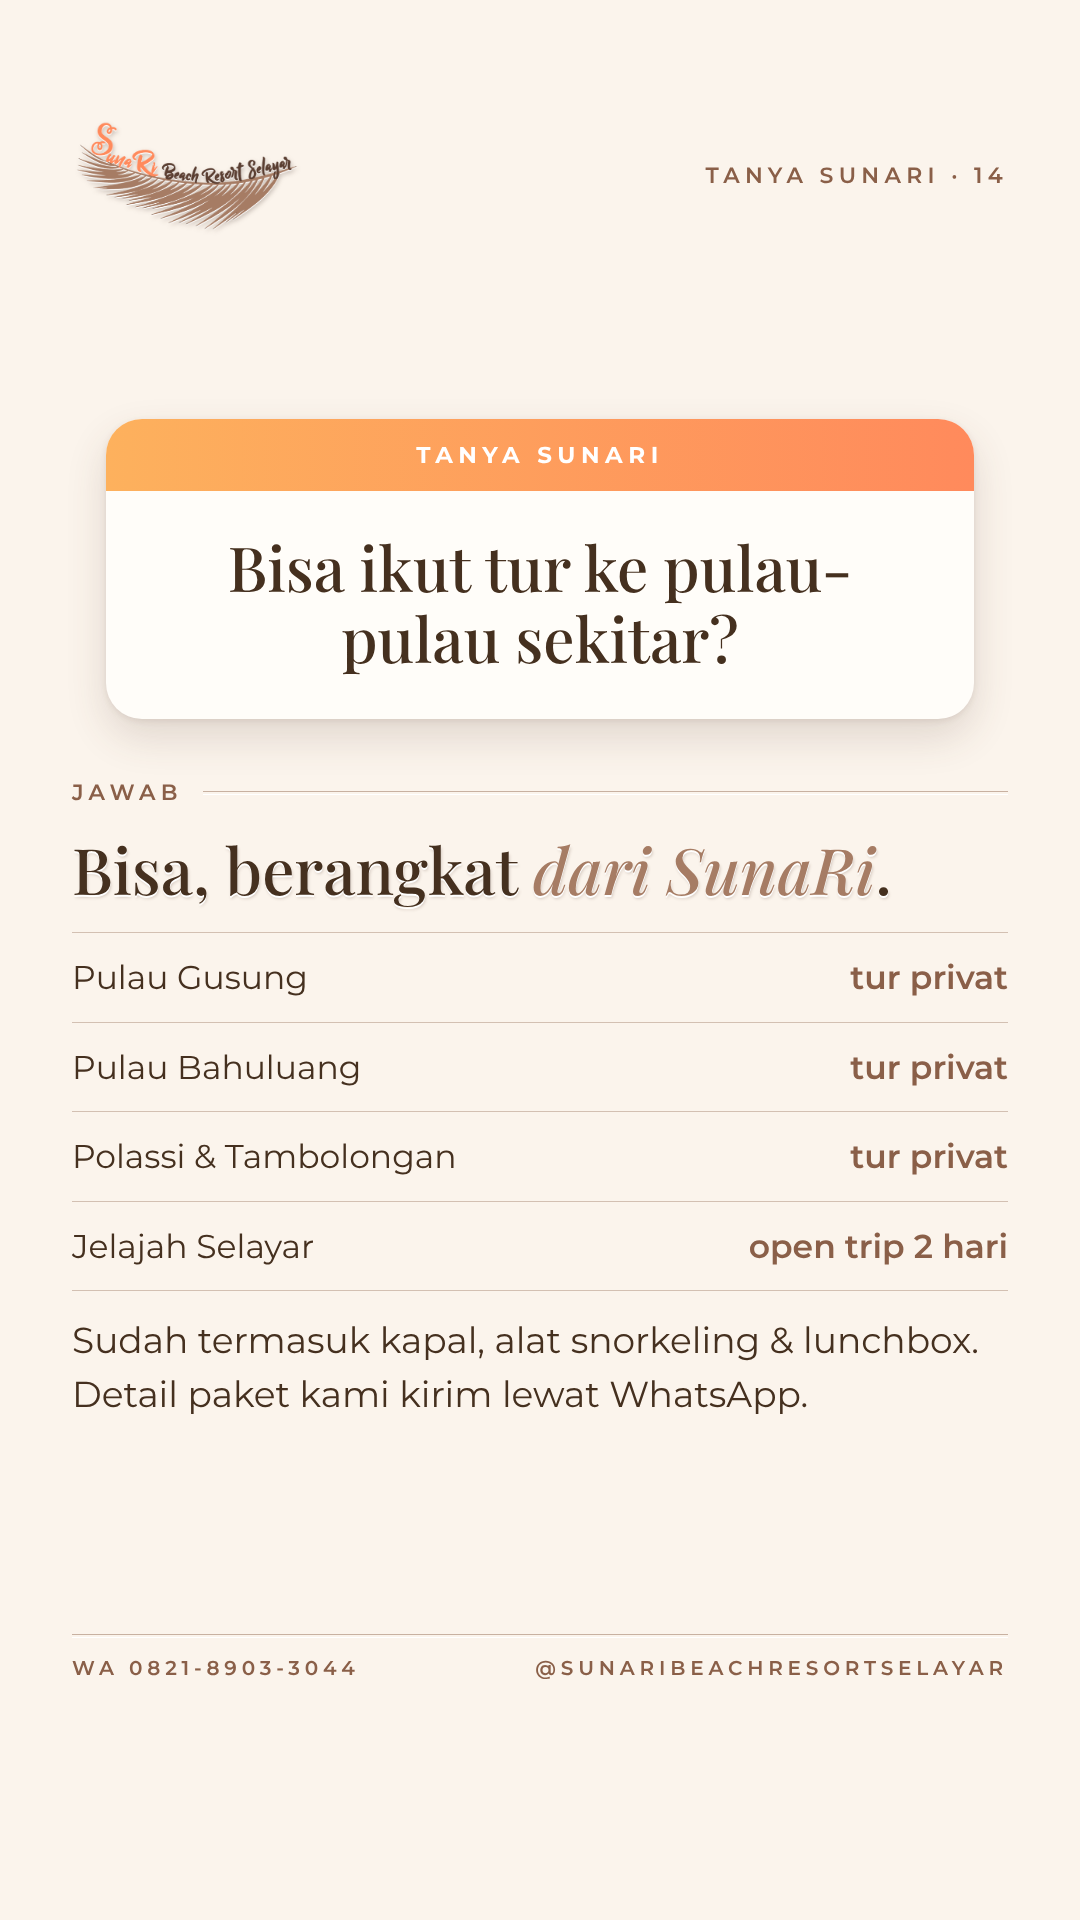
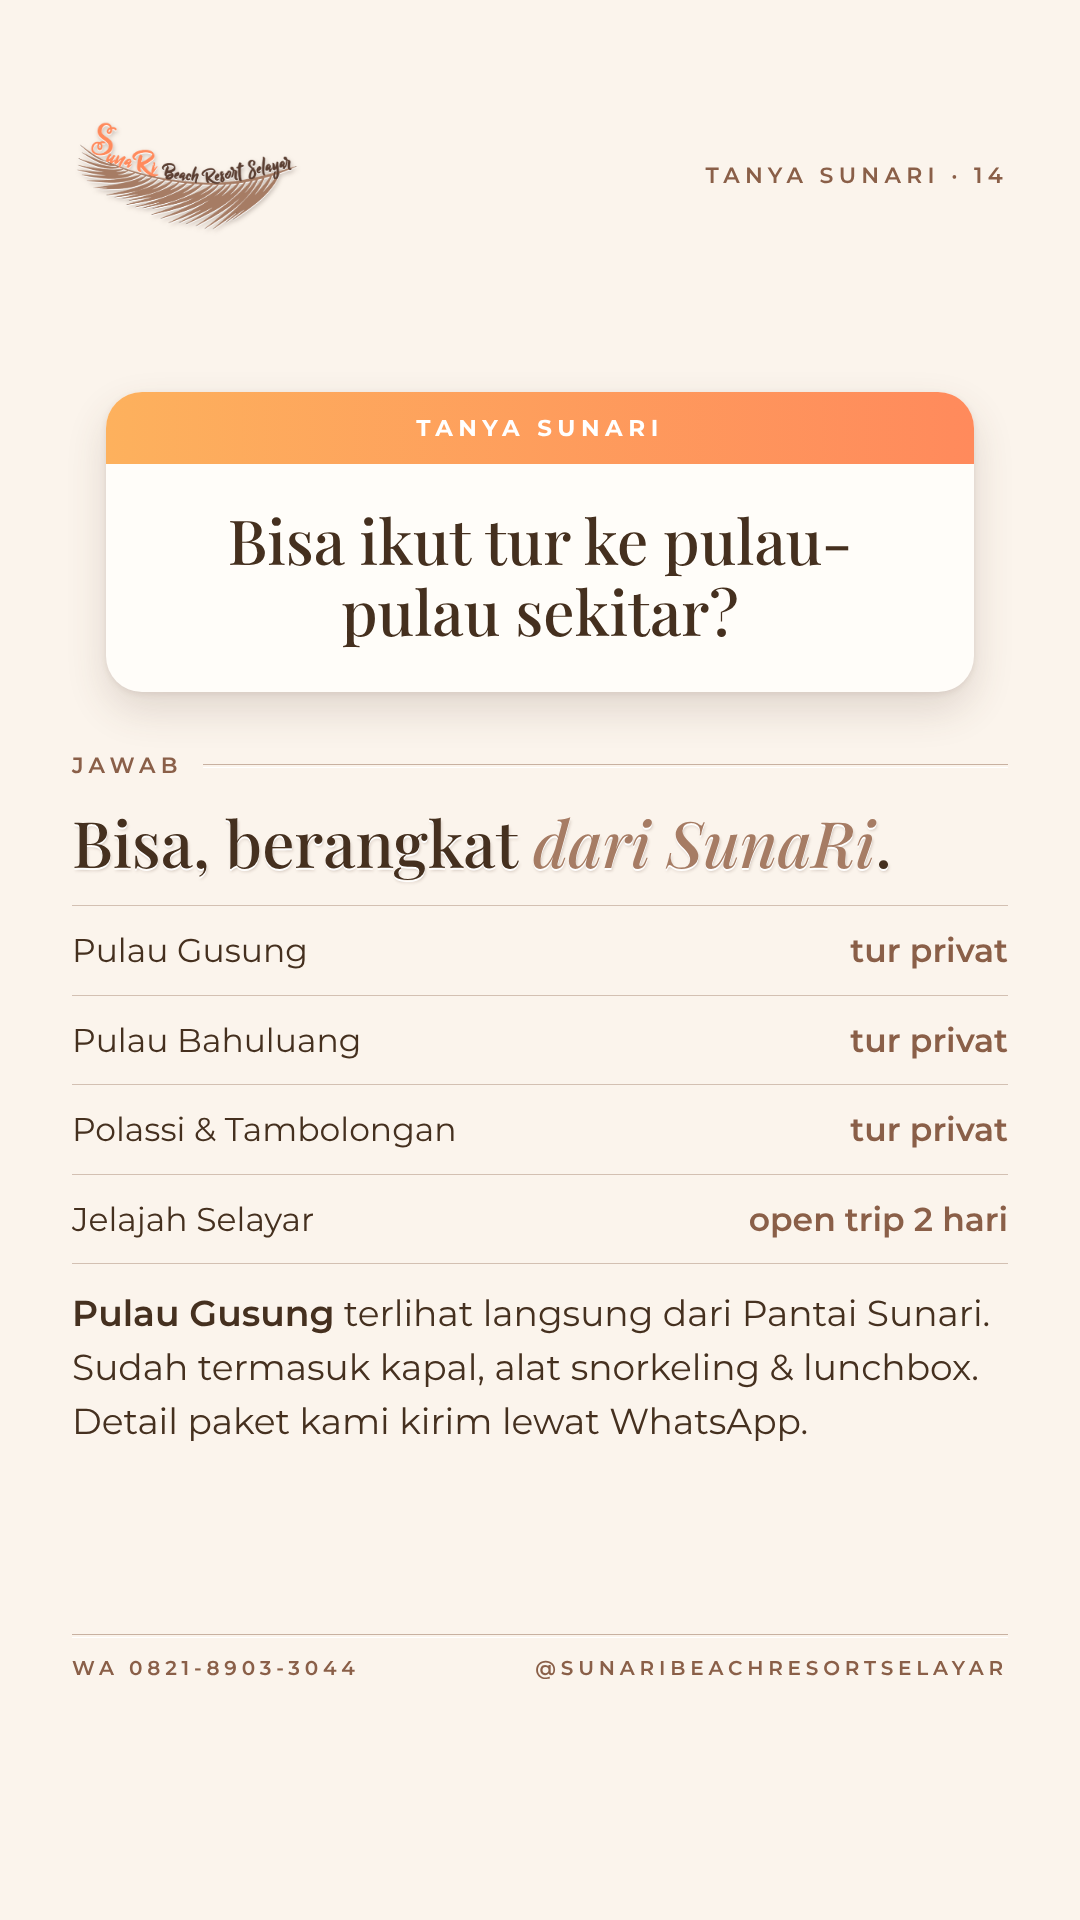
Record free giant swing and Pulau Gusung view; update Q&A and feed slides
Claude-Session: https://claude.ai/code/session_01AizaiBQtsTmWERPRfEgVV4

Changed region(s): [[0.0611, 0.1875, 0.9472, 0.75]]

diff --git a/social/qna.html b/social/qna.html
@@ -79,10 +79,10 @@ body{background:#ccc;font-family:Montserrat,sans-serif;color:#45301F}
   <div class="a"><div class="lbl caps">Jawab</div><div class="main emb">Ada, <span class="it">berbayar</span>, kendaraan privat.</div><div class="list one"><div>Bandara H. Aroeppala ↔ SunaRi</div><div>Pelabuhan Benteng ↔ SunaRi</div><div>Pelabuhan Pamatata ↔ SunaRi</div><div>Transfer dari Makassar (mobil privat atau bus + shuttle)</div></div><p>Daftar tarif lengkap kami kirim lewat WhatsApp. Konfirmasi jadwal paling lambat <b>H-1</b>.</p></div></div>
   <div class="ft"><span class="caps">WA 0821-8903-3044</span><span class="caps">@sunaribeachresortselayar</span></div></div><div class="s" id="qna-13"><div class="top"><img src="../assets/logo-sunari-color.png" alt=""><span class="caps">Tanya SunaRi · 13</span></div>
   <div class="body"><img class="photo" src="../assets/photos/aktivitas/03-ayunan-senja.jpg" style="object-position:50% 55%" alt=""><div class="q"><div class="band">Tanya SunaRi</div><div class="txt">Ada aktivitas apa saja?</div></div>
-  <div class="a"><div class="lbl caps">Jawab</div><div class="list"><div><span>Sewa kayak single</span><span>Rp 50.000</span></div><div><span>Sewa kayak double</span><span>Rp 100.000</span></div><div><span>Ayunan raksasa</span><span>di tepi pantai</span></div><div><span>Tur pulau &amp; snorkeling</span><span>info via WA</span></div></div></div></div>
+  <div class="a"><div class="lbl caps">Jawab</div><div class="list"><div><span>Sewa kayak single</span><span>Rp 50.000</span></div><div><span>Sewa kayak double</span><span>Rp 100.000</span></div><div><span>Ayunan raksasa</span><span>gratis</span></div><div><span>Tur pulau &amp; snorkeling</span><span>info via WA</span></div></div></div></div>
   <div class="ft"><span class="caps">WA 0821-8903-3044</span><span class="caps">@sunaribeachresortselayar</span></div></div><div class="s" id="qna-14"><div class="top"><img src="../assets/logo-sunari-color.png" alt=""><span class="caps">Tanya SunaRi · 14</span></div>
   <div class="body center"><div class="q"><div class="band">Tanya SunaRi</div><div class="txt">Bisa ikut tur ke pulau-pulau sekitar?</div></div>
-  <div class="a"><div class="lbl caps">Jawab</div><div class="main emb">Bisa, berangkat <span class="it">dari SunaRi</span>.</div><div class="list"><div><span>Pulau Gusung</span><span>tur privat</span></div><div><span>Pulau Bahuluang</span><span>tur privat</span></div><div><span>Polassi &amp; Tambolongan</span><span>tur privat</span></div><div><span>Jelajah Selayar</span><span>open trip 2 hari</span></div></div><p>Sudah termasuk kapal, alat snorkeling &amp; lunchbox. Detail paket kami kirim lewat WhatsApp.</p></div></div>
+  <div class="a"><div class="lbl caps">Jawab</div><div class="main emb">Bisa, berangkat <span class="it">dari SunaRi</span>.</div><div class="list"><div><span>Pulau Gusung</span><span>tur privat</span></div><div><span>Pulau Bahuluang</span><span>tur privat</span></div><div><span>Polassi &amp; Tambolongan</span><span>tur privat</span></div><div><span>Jelajah Selayar</span><span>open trip 2 hari</span></div></div><p><b>Pulau Gusung</b> terlihat langsung dari Pantai Sunari. Sudah termasuk kapal, alat snorkeling &amp; lunchbox. Detail paket kami kirim lewat WhatsApp.</p></div></div>
   <div class="ft"><span class="caps">WA 0821-8903-3044</span><span class="caps">@sunaribeachresortselayar</span></div></div><div class="s" id="qna-15"><div class="top"><img src="../assets/logo-sunari-color.png" alt=""><span class="caps">Tanya SunaRi · 15</span></div>
   <div class="body center"><div class="q"><div class="band">Tanya SunaRi</div><div class="txt">Berapa harga kamar &amp; cara pesannya?</div></div>
   <div class="a"><div class="lbl caps">Jawab</div><p style="margin-top:0">Harga &amp; ketersediaan kami kirim <b>langsung lewat WhatsApp</b>, sesuai tanggal &amp; tipe kamar.</p><div class="steps"><div><div class="n">1</div><div><h4>Kirim data</h4><p>tanggal check-in &amp; check-out, jumlah tamu, tipe kamar</p></div></div><div><div class="n">2</div><div><h4>Terima penawaran</h4><p>harga &amp; ketersediaan terbaru</p></div></div><div><div class="n">3</div><div><h4>Bayar &amp; konfirmasi</h4><p>kirim bukti transfer, booking terkonfirmasi</p></div></div></div></div></div>

diff --git a/social/kit.html b/social/kit.html
@@ -661,7 +661,7 @@ body{background:#ddd6cc;font-family:Montserrat,sans-serif;padding:40px;display:f
 </div>
 <div class="tpl" id="p07-3">
   <img class="ph" src="../assets/photos/aktivitas/03-ayunan-senja.jpg" style="object-position:50% 45%" alt="">
-  <div class="txt"><div class="caps">Pantai Sepi</div><h2>Ayunan raksasa saat senja</h2><p>Spot foto favorit di tepi Pantai Sunari.</p></div>
+  <div class="txt"><div class="caps">Pantai Sepi</div><h2>Ayunan raksasa saat senja</h2><p>Spot foto favorit di tepi Pantai Sunari, gratis.</p></div>
   <div class="foot"><span class="caps">SunaRi · Selayar</span><span class="caps">03 — 05</span></div>
 </div>
 <div class="tpl" id="p07-4">

diff --git a/social/build_qna.py b/social/build_qna.py
@@ -119,12 +119,12 @@ qa("Ada layanan antar-jemput?",
    + lst(["Bandara H. Aroeppala ↔ SunaRi", "Pelabuhan Benteng ↔ SunaRi", "Pelabuhan Pamatata ↔ SunaRi", "Transfer dari Makassar (mobil privat atau bus + shuttle)"], one=True)
    + '<p>Daftar tarif lengkap kami kirim lewat WhatsApp. Konfirmasi jadwal paling lambat <b>H-1</b>.</p>')
 qa("Ada aktivitas apa saja?",
-   lst([("Sewa kayak single", "Rp 50.000"), ("Sewa kayak double", "Rp 100.000"), ("Ayunan raksasa", "di tepi pantai"), ("Tur pulau &amp; snorkeling", "info via WA")]),
+   lst([("Sewa kayak single", "Rp 50.000"), ("Sewa kayak double", "Rp 100.000"), ("Ayunan raksasa", "gratis"), ("Tur pulau &amp; snorkeling", "info via WA")]),
    "aktivitas/03-ayunan-senja.jpg", "50% 55%")
 qa("Bisa ikut tur ke pulau-pulau sekitar?",
    '<div class="main emb">Bisa, berangkat <span class="it">dari SunaRi</span>.</div>'
    + lst([("Pulau Gusung", "tur privat"), ("Pulau Bahuluang", "tur privat"), ("Polassi &amp; Tambolongan", "tur privat"), ("Jelajah Selayar", "open trip 2 hari")])
-   + '<p>Sudah termasuk kapal, alat snorkeling &amp; lunchbox. Detail paket kami kirim lewat WhatsApp.</p>')
+   + '<p><b>Pulau Gusung</b> terlihat langsung dari Pantai Sunari. Sudah termasuk kapal, alat snorkeling &amp; lunchbox. Detail paket kami kirim lewat WhatsApp.</p>')
 qa("Berapa harga kamar &amp; cara pesannya?",
    '<p style="margin-top:0">Harga &amp; ketersediaan kami kirim <b>langsung lewat WhatsApp</b>, sesuai tanggal &amp; tipe kamar.</p>'
    + steps([("Kirim data", "tanggal check-in &amp; check-out, jumlah tamu, tipe kamar"), ("Terima penawaran", "harga &amp; ketersediaan terbaru"), ("Bayar &amp; konfirmasi", "kirim bukti transfer, booking terkonfirmasi")]))

diff --git a/social/build_kit.py b/social/build_kit.py
@@ -392,7 +392,7 @@ FEED12 = [
    ("Tempat senja pulang", ["Resort tepi Pantai Sunari","Kepulauan Selayar, Sulawesi Selatan","Where every day ends beautifully"])),
  ("p07", "Pantai Sepi", "camp-3", [
    ("senja/19-pantai-di-bawah-daun.jpg","50% 60%","Pantai yang masih sepi","Pasir, laut tenang, dan langit luas, tanpa keramaian."),
-   ("aktivitas/03-ayunan-senja.jpg","50% 45%","Ayunan raksasa saat senja","Spot foto favorit di tepi Pantai Sunari."),
+   ("aktivitas/03-ayunan-senja.jpg","50% 45%","Ayunan raksasa saat senja","Spot foto favorit di tepi Pantai Sunari, gratis."),
    ("senja/20-payung-lampu-gantung.jpg","50% 65%","Pantai landai &amp; aman","Air tenang, cocok untuk anak-anak dan keluarga.")],
    ("Pantai Sunari", ["Pantai landai &amp; aman untuk anak","Senja tepat di depan pantai","Sewa kayak · single Rp 50.000 · double Rp 100.000"])),
  ("p08", "Sewa Kayak", "feed-kayak", [

diff --git a/assets/photos/KATALOG_FOTO.md b/assets/photos/KATALOG_FOTO.md
@@ -29,7 +29,7 @@ Tambahan 20 Nov 2026:
 |---|---|---|---|
 | `pantai/01-nelayan-pagi.jpg` | Nelayan di perahu biru, laut tenang pagi hari | ✂ (watermark kanan bawah) | Konten "pagi di Pantai Sunari", story |
 | `pantai/02-perahu-nelayan-biru.jpg` | Perahu nelayan biru melintas, daun ketapang di atas | ✅ | Konten pagi, kontras biru vs. senja di grid |
-| `pantai/03-pulau-di-seberang.jpg` | Laut biru & pulau di seberang, bingkai daun | ✅ | Story/feed siang. Nama pulau belum disebut, perlu konfirmasi |
+| `pantai/03-pulau-di-seberang.jpg` | Laut biru & **Pulau Gusung** di seberang, bingkai daun | ✅ | Story/feed siang, promosi tur Pulau Gusung ("terlihat dari Pantai Sunari") |
 | `pantai/04-kursi-santai-bawah-pohon.jpg` | Kursi santai kayu ganda di bawah pohon ketapang, laut biru, pelampung & kayak | ✅ | OTA/Google (area pantai), Q&A "aman untuk anak", konten bersantai |
 | `pantai/05-kursi-santai-dan-kayak.jpg` | Kursi santai yang sama & kayak di pasir, format 9:16 | ✂ (cap "25 Okt 2026 15.07") | Story sewa kayak, Q&A aktivitas |
 | `taman/01-meja-di-taman.jpg` | Meja kayu di bawah palem, bunga bougainvillea | ✂ | Konten taman / tempat santai |
@@ -49,8 +49,8 @@ Tambahan 20 Nov 2026:
 |---|---|---|---|
 | `aktivitas/01-kayak-sore.jpg` | Kayak single saat golden hour | ✅ | Konten sewa kayak |
 | `aktivitas/02-kayak-snorkeling.jpg` | Kayak kuning + tamu snorkeling | 👤 ❓ | Apakah **sewa alat snorkeling** tersedia? |
-| `aktivitas/03-ayunan-senja.jpg` | Ayunan tinggi di pantai saat senja | ✅ ❓ | Sangat kuat untuk Reels. Apakah **ayunan** fasilitas resort (gratis/berbayar)? |
-| `aktivitas/05-ayunan-raksasa-senja.jpg` | Siluet tamu di ayunan raksasa, matahari di cakrawala (foto baru) | ✅ ❓ | Highlight "Ayunan Raksasa", Reels. Masih perlu info: gratis/berbayar |
+| `aktivitas/03-ayunan-senja.jpg` | Ayunan tinggi di pantai saat senja | ✅ | Sangat kuat untuk Reels. Ayunan raksasa milik resort, **gratis** |
+| `aktivitas/05-ayunan-raksasa-senja.jpg` | Siluet tamu di ayunan raksasa, matahari di cakrawala (foto baru) | ✅ | Highlight "Ayunan Raksasa", Reels (gratis) |
 | `aktivitas/04-perahu-wisata.jpg` | Perahu wisata "Selayar Traveling" | 👤 ❓ | Perahu milik operator lain; jangan diklaim sebagai layanan SunaRi tanpa konfirmasi kerja sama |
 
 ## Acara

diff --git a/social/STORY_QNA.md b/social/STORY_QNA.md
@@ -18,8 +18,8 @@ Untuk membuat ulang: `python3 social/build_qna.py && node social/render_qna.js`.
 | `qna-10` | Bisa makan malam saat senja? | Senja Dinner, pesan H-1 |
 | `qna-11` | Cara ke Selayar? | Pesawat ke H. Aroeppala, atau darat + feri Bira–Pamatata |
 | `qna-12` | Ada antar-jemput? | Ada, berbayar. Tarif lengkap via WA |
-| `qna-13` | Aktivitas apa saja? | Kayak Rp 50.000 / Rp 100.000, ayunan raksasa, tur pulau & snorkeling |
-| `qna-14` | Bisa ikut tur pulau? | Gusung, Bahuluang, Polassi & Tambolongan (privat), open trip 2 hari |
+| `qna-13` | Aktivitas apa saja? | Kayak Rp 50.000 / Rp 100.000, ayunan raksasa (gratis), tur pulau & snorkeling |
+| `qna-14` | Bisa ikut tur pulau? | Gusung (terlihat dari Pantai Sunari), Bahuluang, Polassi & Tambolongan (privat), open trip 2 hari |
 | `qna-15` | Harga kamar & cara pesan? | Harga via WhatsApp (tidak dicantumkan), 3 langkah reservasi |
 | `qna-16` | Di mana lokasinya? | Alamat lengkap. Tempel stiker lokasi / link Google Maps |
 | `qna-17-penutup` | Penutup: "Tanya langsung saja" | WA 0821-8903-3044 |

diff --git a/brand/BRAND_GUIDE.md b/brand/BRAND_GUIDE.md
@@ -308,7 +308,7 @@ Folder `social/`:
 | **Google Maps** | https://maps.app.goo.gl/iUWWHNCT7Vyu4i537 |
 | **Instagram** | @sunaribeachresortselayar |
 | **Check-in / check-out** | 14.00 / 12.00 WITA |
-| **Fasilitas umum** | Bajoy Beach Resto (07.00–21.00; non-tamu s.d. 19.00), Senja Dinner (pesan H-1), Wi-Fi, antar-jemput bandara/pelabuhan (berbayar) |
+| **Fasilitas umum** | Bajoy Beach Resto (07.00–21.00; non-tamu s.d. 19.00), Senja Dinner (pesan H-1), Wi-Fi, antar-jemput bandara/pelabuhan (berbayar), ayunan raksasa (gratis), sewa kayak, tur pulau (Gusung, terlihat dari Pantai Sunari, Bahuluang, Polassi & Tambolongan, open trip) |
 | **Pantai** | **Pantai Sunari**: landai dan aman untuk anak-anak (alamat resmi tetap Dusun Tile-Tile Utara) |
 | **Kapasitas kamar** | Standard, VIP Standard, Superior, VIP Superior: 2 orang (maks. 3 dengan 1 extra bed) · Family Superior: 6 orang (maks. 8 dengan 2 extra bed) |
 | **WhatsApp reservasi** | +62 821-8903-3044 (Sofyan) |

diff --git a/social/HIGHLIGHT_V2.md b/social/HIGHLIGHT_V2.md
@@ -43,6 +43,6 @@ atau satu highlight "Ramadhan" tanpa tahun jika ingin digabung. Cover tanpa tahu
 
 ## Perlu dikonfirmasi sebelum diisi
 - **Gusung Island & Bahuluang:** apakah SunaRi menjual trip ke sana (harga, durasi, kapal)? Atau highlight ini hanya inspirasi destinasi? Isinya harus sesuai.
-- **Ayunan raksasa:** gratis untuk tamu atau berbayar? Boleh untuk pengunjung luar?
+- **Ayunan raksasa:** ✅ gratis (dikonfirmasi). Masih terbuka: boleh untuk pengunjung luar?
 - **Event:** apakah resort menerima sewa venue untuk acara/gathering?
 - **Highlight lama** (`social/highlights/`, 8 cover): SunaRi, Kamar, Booking, Senja, Resto, Kayak, Lokasi, Ulasan. Pilih mana yang tetap dipakai agar tidak dobel (misalnya Kayak vs Kano / Kayak, Booking vs Reservasi Kamar).

diff --git a/social/FEED_12_CAROUSEL.md b/social/FEED_12_CAROUSEL.md
@@ -22,5 +22,5 @@ Sumber desain: bagian `FEED12` dan `ROOMS` di `social/build_kit.py`. Susun ulang
 
 ⚠ Perlu dicek:
 - **11 Staycation Senja:** paket ini masih contoh. Pastikan isi paketnya disetujui sebelum diposting.
-- **07 Pantai Sepi:** slide ayunan raksasa menyebutnya "spot foto". Sesuaikan jika ayunan berbayar.
+- **07 Pantai Sepi:** slide ayunan raksasa: "spot foto favorit … gratis" (dikonfirmasi gratis).
 - Slide 01 dari no. 01, 04, 06, 07, 08, 10 adalah tile feed tanpa tulisan "Geser →"; di Instagram ikon carousel tetap muncul otomatis.
